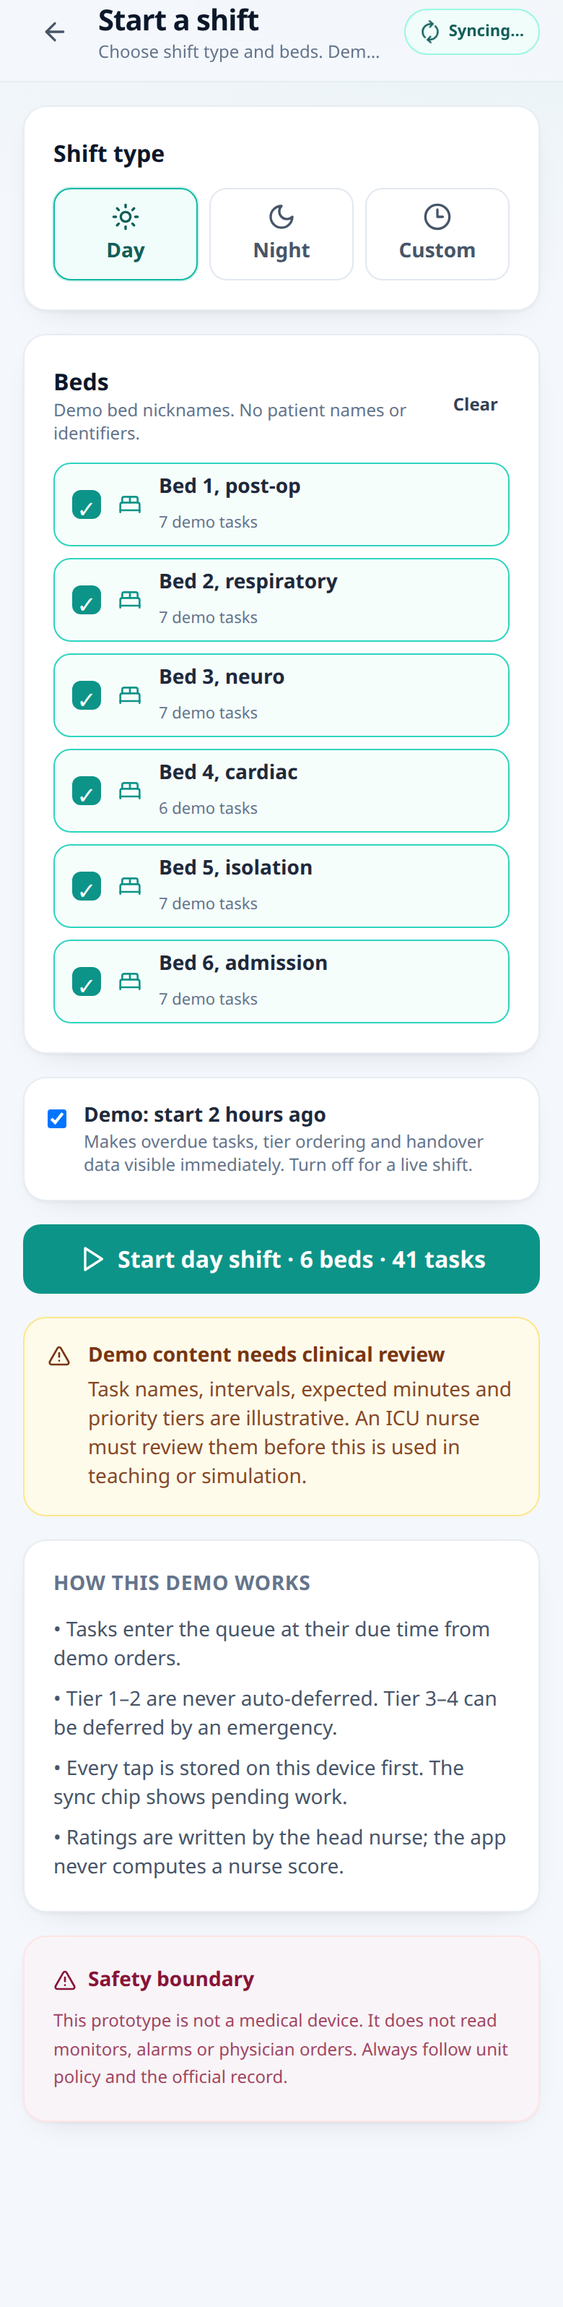
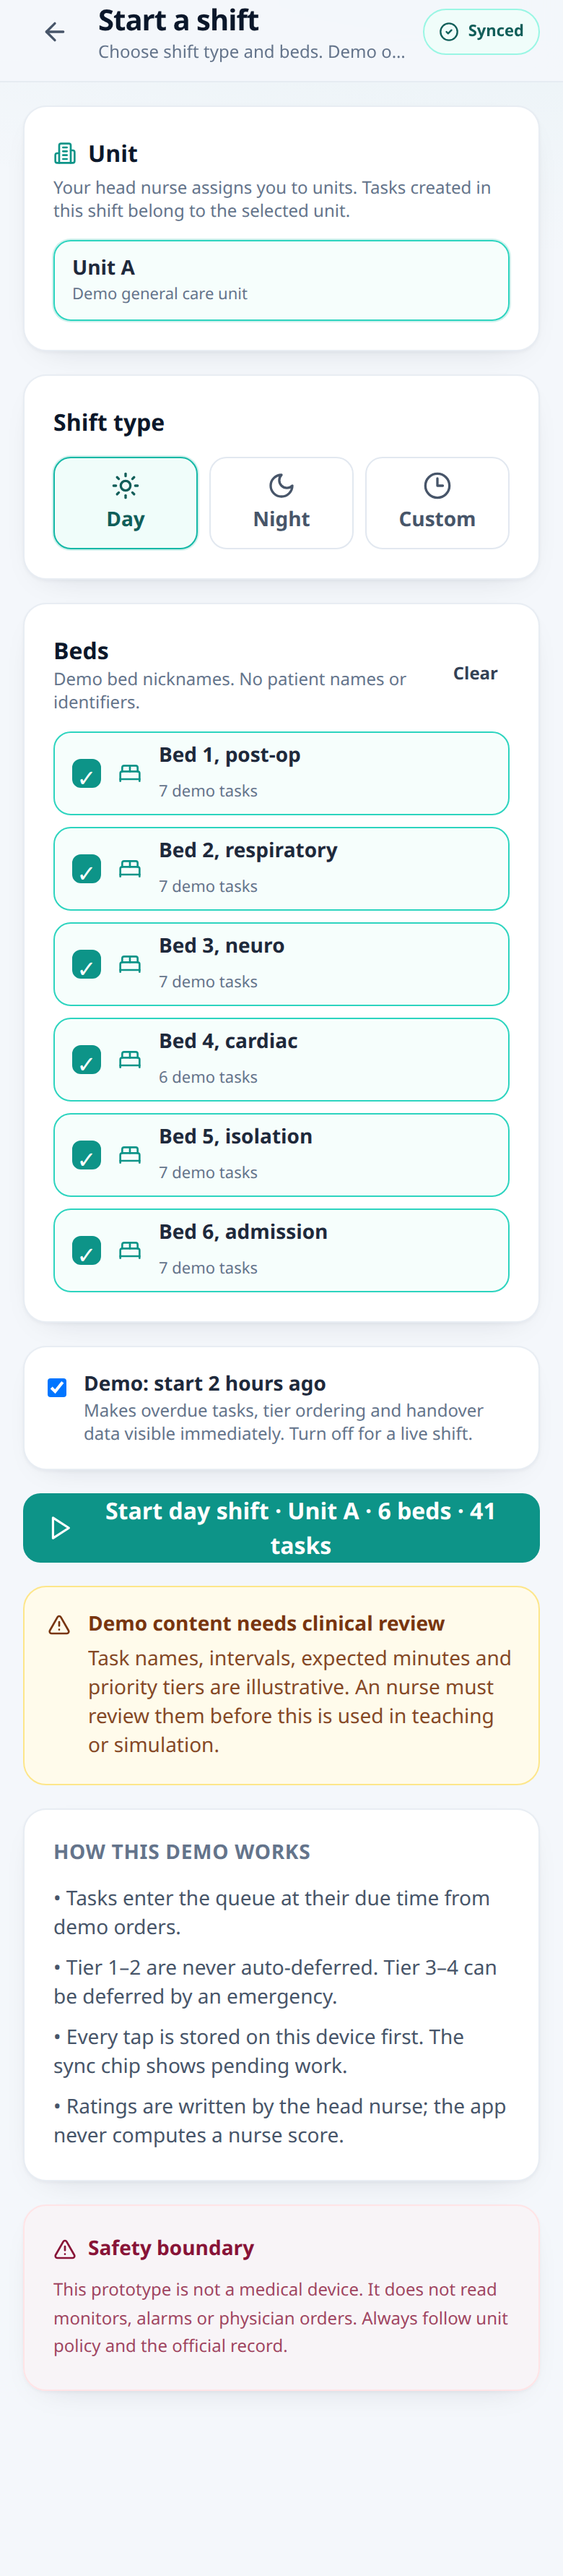
docs: record dynamic unit deployment and APK

diff --git a/EVALUATION.md b/EVALUATION.md
@@ -46,18 +46,22 @@ Environment: Linux workspace, Node 22, Next.js 16.3.1, local Neon database, Chro
 | Live login | `POST /api/auth/login` on Vercel | **200** for `amina/1111` and `head/9999`; role returned in `user.role` |
 | Live nurse registration | `POST /api/auth/register` on Vercel | **201**; nurse role, unique `N-...` code, login **200**; duplicate username **409**; role injection **400** |
 | Live head analytics | `GET /api/analytics/unit` on Vercel | **200**; 14 shifts |
+| Live units | `GET /api/units` with head token on Vercel | **200**; Unit A and Unit B |
+| Live unit shift filter | `GET /api/shifts?unitId=unit-a` on Vercel | **200**; 7 shifts, all `unitId=unit-a`, each with `unitName=Unit A` |
+| Live unit analytics | `GET /api/analytics/unit?days=30&unitId=unit-a` on Vercel | **200**; 7 shifts, completion 81.0% |
 | Live planned windows | `GET /api/shifts/sim-20261120-u-nurse-2` on Vercel | **200**; 36 `TASK_CREATED` events carry `plannedFrom`/`plannedTo`; no `dueAt` |
 | Live CORS preflight | `OPTIONS /api/auth/login`, `Origin: https://localhost` | **204**; `access-control-allow-origin: https://localhost` |
+| Live CORS unit update | `OPTIONS /api/units/unit-a`, requested `PATCH` | **204**; `access-control-allow-methods` includes `PATCH`, `DELETE` |
 | Live browser smoke | Playwright against Vercel | nurse login reached `/shift-start`; head login reached `/head`; no page errors |
[2 lines of base64/hex data omitted]
 
 ### Production deployment
 
 - Web/API: <https://icu-tasklog.vercel.app> — one Vercel Next.js project; `/api/*` is served by the mounted Hono app.
-- Observed checks: health 200, nurse and head login 200, head analytics 200, CORS preflight 204.
-- Nurse self-registration: live `POST /api/auth/register` returned 201, created a nurse account, and that account signed in successfully. Duplicate username returned 409 and a client-supplied `head_nurse` role returned 400. The verification account was removed after the check.
-- Playwright smoke test: nurse login reached `/shift-start`, head login reached `/head`, no page errors.
-- Android artifact: GitHub Actions run `44904871255` succeeded. The `icu-tasklog-debug-apk` artifact contains `app-debug.apk` (5,600,714 bytes, SHA-256 above), and its bundled JavaScript contains `https://icu-tasklog.vercel.app`.
+- Observed checks after the unit deployment: health 200, head login 200, units 200 (Unit A/Unit B), unit-filtered shifts 200 (7 Unit A shifts), unit analytics 200 (7 shifts, 81.0% completion), CORS `PATCH` preflight 204.
+- Nurse self-registration: live `POST /api/auth/register` returned 201, created a nurse account, and that account signed in successfully. Duplicate username returned 409 and a client-supplied `head_nurse` role returned 400. The verification accounts were removed after the checks.
+- Playwright smoke test: nurse login reached `/shift-start`, head login reached `/head`, no page errors. The unit page was also opened live to capture `17-head-units.png`.
+- Android artifact: GitHub Actions run `44917777448` succeeded. The `icu-tasklog-debug-apk` artifact contains `app-debug.apk` (5,616,993 bytes, SHA-256 above), and its bundled JavaScript contains `https://icu-tasklog.vercel.app`.
 - **NOT VERIFIED:** installing and opening the APK on a physical Android device. No device or local Android SDK was available in this workspace.
 
 The simulation is deterministic and uses only bed labels and participant codes. It is demonstration data, not a study result.
@@ -96,6 +100,9 @@ Final captures are in `evaluation/screenshots/`:
 | `14-head-review.png` | Five manual ratings |
 | `15-head-export.png` | CSV export |
 | `16-surveys.png` | SUS/raw TLX forms |
+| `17-head-units.png` | Dynamic unit editor and nurse assignment |
+
+`02-shift-start.png`, `11-head-dashboard.png` and `17-head-units.png` were recaptured after the dynamic-unit changes. The remaining screenshots show the same flows and timestamp rules from the pre-unit capture pass.
 
 ## 4. Usability targets to check with participants
 

diff --git a/ASSUMPTIONS.md b/ASSUMPTIONS.md
@@ -20,5 +20,5 @@
 18. **Mobile API URL.** The APK has no runtime server switcher. `NEXT_PUBLIC_API_URL` is compiled in, so the APK must be rebuilt if the Vercel URL changes.
 19. **Nurse self-registration.** The public signup form creates nurse accounts only; the server never trusts a client-supplied role. Head-nurse accounts remain provisioned by the study team. Registration requires connectivity, has no email verification or PIN recovery, and is open to anyone who can reach the deployment. This is acceptable for the thesis demo but would need an invite code, rate limiting and recovery before real use.
 20. **Planned windows and legacy events.** Task timing moved from a single `dueAt` to `plannedFrom`/`plannedTo`. Old events that still contain `dueAt` are normalized when read: `plannedTo = dueAt` and `plannedFrom = dueAt - expectedMin`. New production demo data was regenerated after the migration.
-21. **Dynamic units are implemented.** A nurse can belong to multiple units; each shift belongs to exactly one unit; tasks inherit the shift unit. Any head nurse can manage all units in this thesis demo, with `created_by` retained for audit. Unit management is online-only; the nurse's assigned active units are cached for offline shift start. Archiving a unit blocks new shifts but preserves historical shifts.
+21. **Dynamic units are implemented.** A nurse can belong to multiple units; each shift belongs to exactly one unit; tasks inherit the shift unit. Any head nurse can manage all units in this thesis demo, with `created_by` retained for audit. Unit management is online-only; the nurse's assigned active units are cached for offline shift start. Archiving removes a unit from online shift choices and preserves historical shifts; queued offline shifts still sync if the unit exists, so work is not lost.
 22. **Legacy shifts stay unassigned.** Shifts created before the unit migration keep `unit_id = NULL` and remain visible under “Unassigned” in the head-nurse filters. The server accepts an offline shift if the unit still exists even when the nurse assignment changed after the cached start, protecting queued offline work.

diff --git a/PROGRESS.md b/PROGRESS.md
@@ -30,18 +30,18 @@
 
 ## P5 — Deployment and APK packaging (done)
 - Live deployment: <https://icu-tasklog.vercel.app> — one Next.js project with the Hono API at `/api`.
-- Production checks observed: health `200`, nurse and head login `200`, head analytics `200`, CORS preflight `204`; Playwright logins reached `/shift-start` and `/head` with no page errors.
-- Live self-registration observed: `201` for a nurse account, login `200`, duplicate `409`, client role injection `400`; the check account was removed.
+- Production checks observed after unit deployment: health `200`, head login `200`, units `200` (Unit A/Unit B), `GET /api/shifts?unitId=unit-a` `200` with 7 Unit A shifts, unit analytics `200` with 7 shifts, CORS `PATCH` preflight `204`.
+- Live self-registration observed earlier: `201` for a nurse account, login `200`, duplicate `409`, client role injection `400`; test accounts were removed.
 - Capacitor 8.6 config, icon/splash resources, GitHub Actions workflow.
 - `npm run build:mobile` verified locally: static export succeeds and `src/app/api` is restored.
[2 lines of base64/hex data omitted]
+- Screenshots `02-shift-start.png`, `11-head-dashboard.png` and `17-head-units.png` were refreshed from the live deployment.
 - **NOT VERIFIED:** installation and opening of the APK on a physical Android device. No device or local Android SDK was available in this workspace.
 
 ## NOT VERIFIED
 - APK installation/opening on a physical device.
 - Real ICU nurse usability sessions, SUS/TLX results and clinical review of demo task tiers.
 - Neon transient DNS failures observed locally are environmental; production reliability is not measured.
-- Physical-device APK installation remains unverified.
 
 ## Evidence
 - `EVALUATION.md` records commands, observed outputs and screenshot paths.

diff --git a/README.md b/README.md
@@ -29,6 +29,8 @@ The production deployment serves the Next.js app and the Hono API from the same 
 | `omar` | `3333` | Nurse |
 | `head` | `9999` | Head nurse |
 
+Demo unit assignments: `amina` → Unit A, `yara` → Unit A and Unit B, `omar` → Unit B. The head-nurse demo account can create more units and change these assignments.
+
 The shift-start screen has a demo option that backdates the shift by two hours, so overdue and tier-ordering states are visible immediately. Turn it off for a live practice shift.
 
 Nurses can also create their own account from the login screen. Self-registration creates **nurse accounts only**; head-nurse accounts are provisioned by the study team. There is no email recovery, and account creation requires a network connection. After the first sign-in, the normal offline nurse flow is available.

diff --git a/APK-DISTRIBUTION.md b/APK-DISTRIBUTION.md
@@ -18,7 +18,7 @@ cp /tmp/icu-apk-final/app-debug.apk ~/Desktop/icu-tasklog.apk
 
 Or download it again from GitHub Actions:
 
-<https://github.com/ibrahim99035/ICU-Task-Management/actions/runs/44904871255>
+<https://github.com/ibrahim99035/ICU-Task-Management/actions/runs/44917777448>
 
 At the bottom of that run page, under **Artifacts**, download:
 
@@ -34,8 +34,8 @@ app-debug.apk
 
 ### Artifact details
 
-- Size: 5,600,714 bytes (5.4 MiB)
[1 lines of base64/hex data omitted]
+- Size: 5,616,993 bytes (5.4 MiB)
[1 lines of base64/hex data omitted]
 
 ## 2. Share it
 
